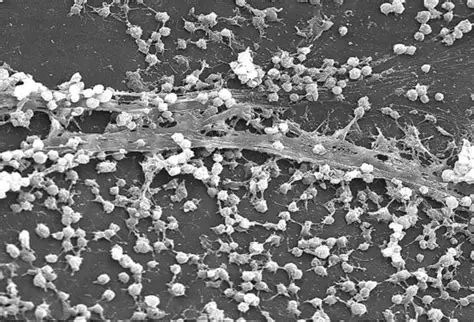
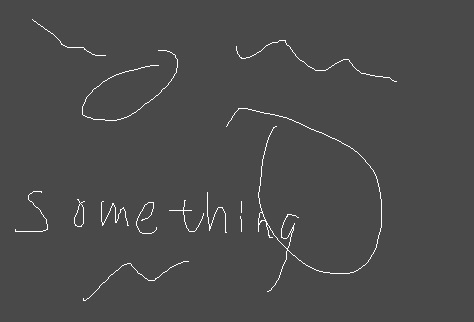
feat: update all possible violation about license

diff --git a/aust-book-report-example.tex b/aust-book-report-example.tex
@@ -6,7 +6,7 @@
   name        = {构·de·von·石},
   sid         = {1145141919},
   institution = {打灰学院},
-  major       = {给排水专业},
+  major       = {摸鱼专业},
   mentor      = {张三},
   direction   = {无机物烹饪},
   title       = {意大利面与45号混凝土的微观级复合拌合研究},

diff --git a/aust-class-report-example.tex b/aust-class-report-example.tex
@@ -7,7 +7,7 @@
   course     = {拌面技术课程报告},
   title      = {意大利面与45号混凝土的微观级复合拌合研究},
   school     = {打灰学院},
-  major      = {给排水专业},
+  major      = {摸鱼专业},
   sid        = {1145141919},
   name       = {构·de·von·石},
   lecturer   = {张三},

diff --git a/LICENSES/README.md b/LICENSES/README.md
@@ -2,13 +2,17 @@
 
 本项目采用混合许可证模式。
 
-## 专有资产
+## 专有许可证
 
 本项目中的以下文件来自AUST，并被AUST版权所有，AUST对其保留所有权利。
 
 - `aust-logo-banner.jpg`
 - `aust-nologo-banner.png`
 
-## 开源资产
+## CC0许可证
+
+本项目中使用的论文示例图片`aust-thesis-example.jpg`由本人创作，声明其为CC0许可证。
+
+## MIT许可证
 
 除上述专有资产外，其余资产均以[MIT许可证](./MIT.txt)进行开源。

diff --git a/README.md b/README.md
@@ -45,6 +45,7 @@
     - 如果你已经有了`TEXINPUTS`环境变量，请将`D:\aust-thesis-template`加在其中，用分号分隔即可。
     - 如果你使用的不是Windows，而是Linux或macOS等操作系统，请将分号改为冒号。
     - `D:\aust-thesis-template`是你下载本项目的位置，你需要替换为你的下载位置，这里只是拿来举例。
+    - 有关`TEXINPUTS`环境变量的具体用法请自行查找。
 1. 最后打开你TeXLive环境中的编辑器，即可开始编辑。
     - 由于环境变量已经设置，之后只需要正常打开编辑器编辑即可，无需重复上述步骤。
     - 参考本项目提供的各类示例来知悉如何使用本模板。